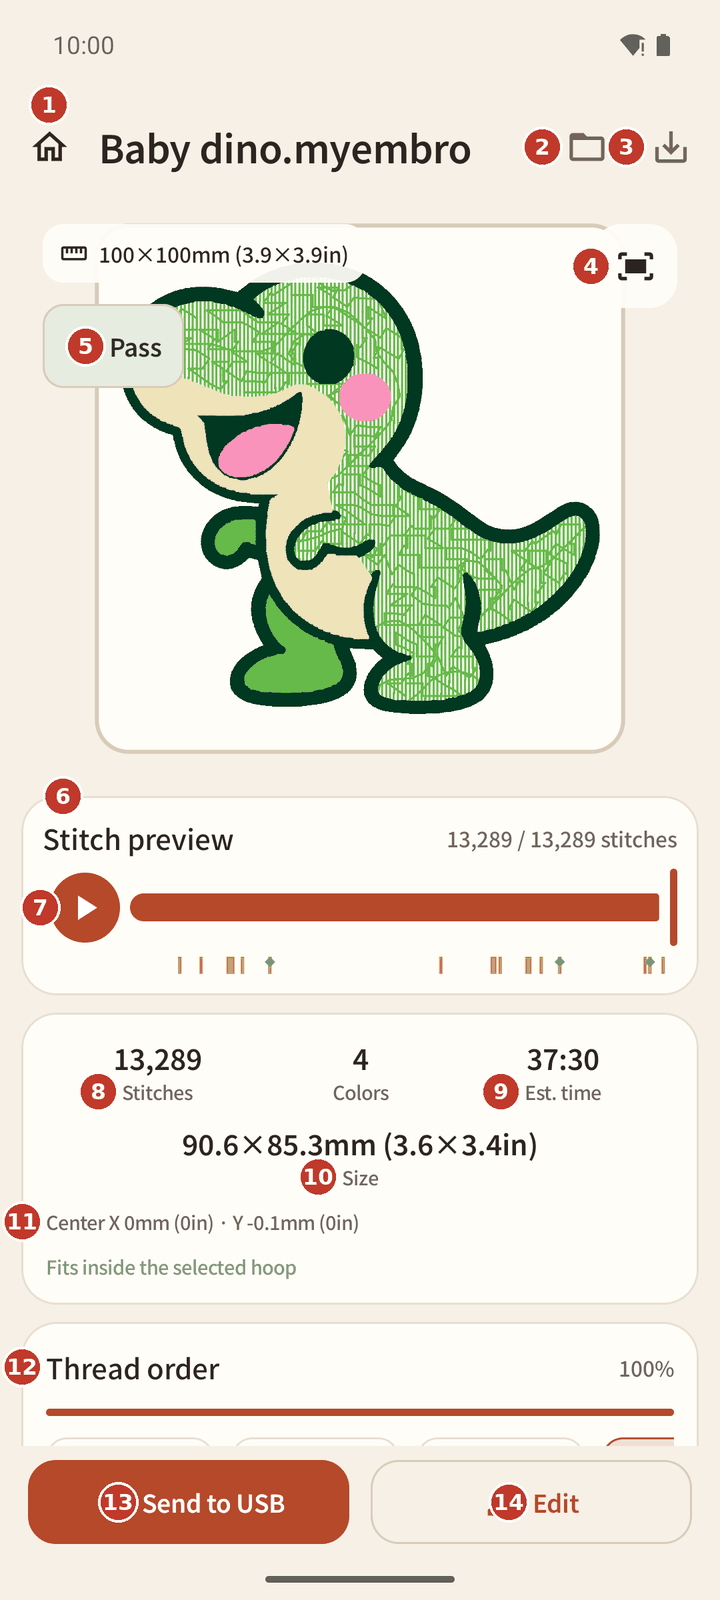
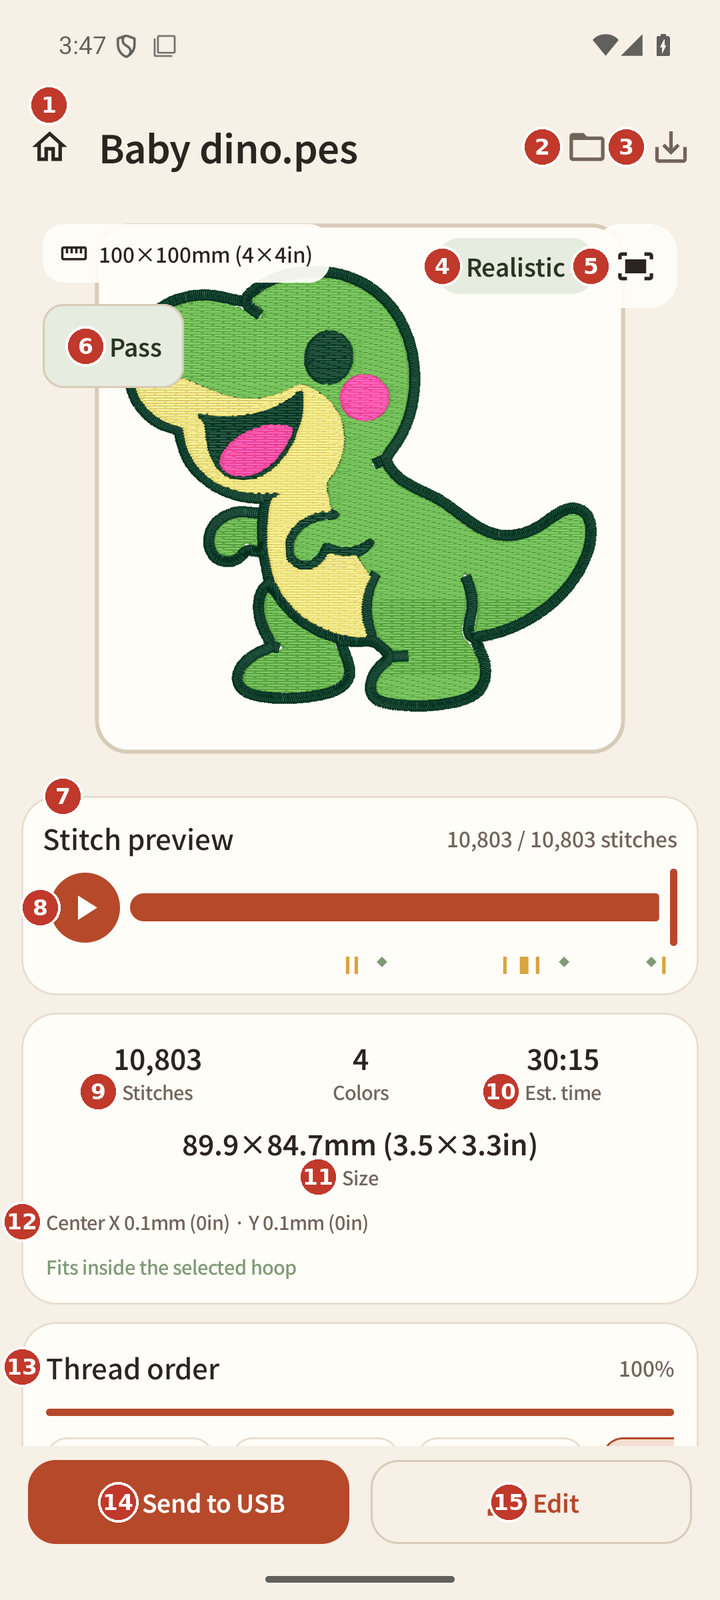
docs: refresh beta11 realistic viewer and format export screenshots

diff --git a/docs/manual/user-guide.ko.md b/docs/manual/user-guide.ko.md
@@ -602,17 +602,18 @@ Android 8.0 이상이면 어느 폰에서나 그림을 고를 수 있습니다. 
 | 1 | 홈 | 홈으로 갑니다. |
 | 2 | 파일 열기 | 다른 파일을 엽니다. |
 | 3 | 도안 내보내기 | 내보내기 시트를 엽니다. |
-| 4 | 화면에 맞추기 | 도안 전체가 보이게 맞춥니다. |
-| 5 | 봉제 점검 배지 | 통과 또는 차단입니다. 누르면 봉제 점검이 열립니다(9장). |
-| 6 | 땀 미리보기 | 끌면 그 땀까지 보여 줍니다. |
-| 7 | 재생 | 바느질 순서대로 재생합니다. |
-| 8 | 땀 수 | 전체 땀 수입니다. 옆에 색 수가 있습니다. |
-| 9 | 예상 시간 | 대략 걸리는 시간입니다. |
-| 10 | 크기 | 도안 크기입니다. |
-| 11 | 중심 위치 | 후프 중심에서의 위치와 후프 안에 들어가는지입니다. |
-| 12 | 색상 순서 | 실을 바꾸는 순서입니다. |
-| 13 | USB로 전송 | 자수기로 보냅니다(10장). |
-| 14 | 수정 | 편집기에서 엽니다. |
+| 4 | 실사 | 실로 박은 모습으로 보여 주며, 처음부터 켜져 있고 누르면 꺼집니다. |
+| 5 | 화면에 맞추기 | 도안 전체가 보이게 맞춥니다. |
+| 6 | 봉제 점검 배지 | 통과 또는 차단입니다. 누르면 봉제 점검이 열립니다(9장). |
+| 7 | 땀 미리보기 | 끌면 그 땀까지 보여 줍니다. |
+| 8 | 재생 | 바느질 순서대로 재생합니다. |
+| 9 | 땀 수 | 전체 땀 수입니다. 옆에 색 수가 있습니다. |
+| 10 | 예상 시간 | 대략 걸리는 시간입니다. |
+| 11 | 크기 | 도안 크기입니다. |
+| 12 | 중심 위치 | 후프 중심에서의 위치와 후프 안에 들어가는지입니다. |
+| 13 | 색상 순서 | 실을 바꾸는 순서입니다. |
+| 14 | USB로 전송 | 자수기로 보냅니다(10장). |
+| 15 | 수정 | 편집기에서 엽니다. |
 
 **사용법**
 
@@ -625,6 +626,13 @@ Android 8.0 이상이면 어느 폰에서나 그림을 고를 수 있습니다. 
    - **USB로 내보내기**: 항상 PES로 USB에 보냅니다(10장).
 
 ![도안 내보내기 시트](../images/manual/ko/08d-export-sheet.png)
+
+| 번호 | 이름 | 하는 일 |
+|---|---|---|
+| 1 | 형식 | 저장하거나 공유할 파일 형식을 고릅니다. |
+| 2 | PES로 저장 | 고른 형식으로 휴대폰이나 연결된 저장장치에 저장합니다. |
+| 3 | PES 파일 공유 | 고른 형식의 파일 사본을 다른 앱으로 보냅니다. |
+| 4 | USB로 내보내기 | 항상 PES로 USB에 보냅니다(10장). |
 
 **알아 두기**
 

diff --git a/docs/manual/user-guide.md b/docs/manual/user-guide.md
@@ -599,17 +599,18 @@ In Color drawing, turn on **Thread texture** to sew the picture as layered threa
 | 1 | Home | Goes to the home screen. |
 | 2 | Open file | Opens another file. |
 | 3 | Export design | Opens the export sheet. |
-| 4 | Fit to screen | Fits the whole design on the screen. |
-| 5 | Sewing check badge | Pass or Blocked. Tap it to open the sew-out check (chapter 9). |
-| 6 | Stitch preview | Drag to show the design up to that stitch. |
-| 7 | Play | Plays the sewing in order. |
-| 8 | Stitches | Total stitches. The color count is next to it. |
-| 9 | Est. time | Roughly how long it takes. |
-| 10 | Size | The design size. |
-| 11 | Center | Position from the hoop center, and whether it fits the hoop. |
-| 12 | Thread order | The order of thread changes. |
-| 13 | Send to USB | Sends it to the machine (chapter 10). |
-| 14 | Edit | Opens it in the editor. |
+| 4 | Realistic | Shows how the design looks in thread; it is on by default and turns off when tapped. |
+| 5 | Fit to screen | Fits the whole design on the screen. |
+| 6 | Sewing check badge | Pass or Blocked. Tap it to open the sew-out check (chapter 9). |
+| 7 | Stitch preview | Drag to show the design up to that stitch. |
+| 8 | Play | Plays the sewing in order. |
+| 9 | Stitches | Total stitches. The color count is next to it. |
+| 10 | Estimated time | Roughly how long it takes. |
+| 11 | Size | The design size. |
+| 12 | Center | Position from the hoop center, and whether it fits the hoop. |
+| 13 | Thread order | The order of thread changes. |
+| 14 | Send to USB | Sends it to the machine (chapter 10). |
+| 15 | Edit | Opens it in the editor. |
 
 **How to use it**
 
@@ -622,6 +623,13 @@ In Color drawing, turn on **Thread texture** to sew the picture as layered threa
    - **Export to USB**: always sends PES over USB (chapter 10).
 
 ![Export design sheet](../images/manual/en/08d-export-sheet.png)
+
+| No. | Name | What it does |
+|---|---|---|
+| 1 | Format | Chooses the file format for saving or sharing. |
+| 2 | Save as PES | Saves in the selected format to your phone or connected storage. |
+| 3 | Share PES file | Sends a copy in the selected format using another app. |
+| 4 | Export to USB | Always sends PES to USB (chapter 10). |
 
 **Good to know**
 
